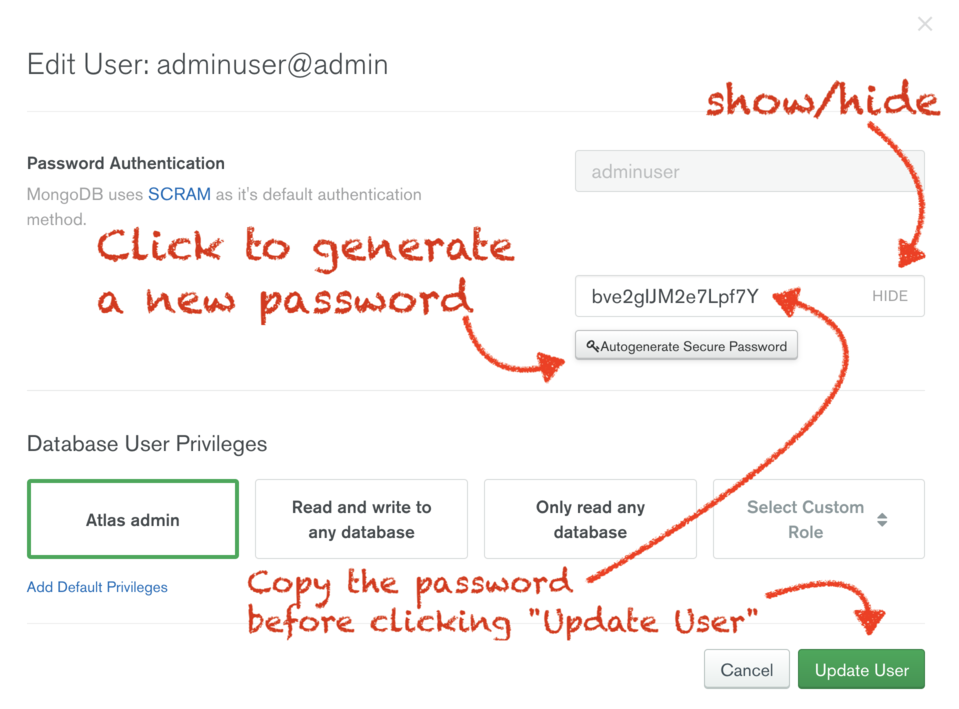
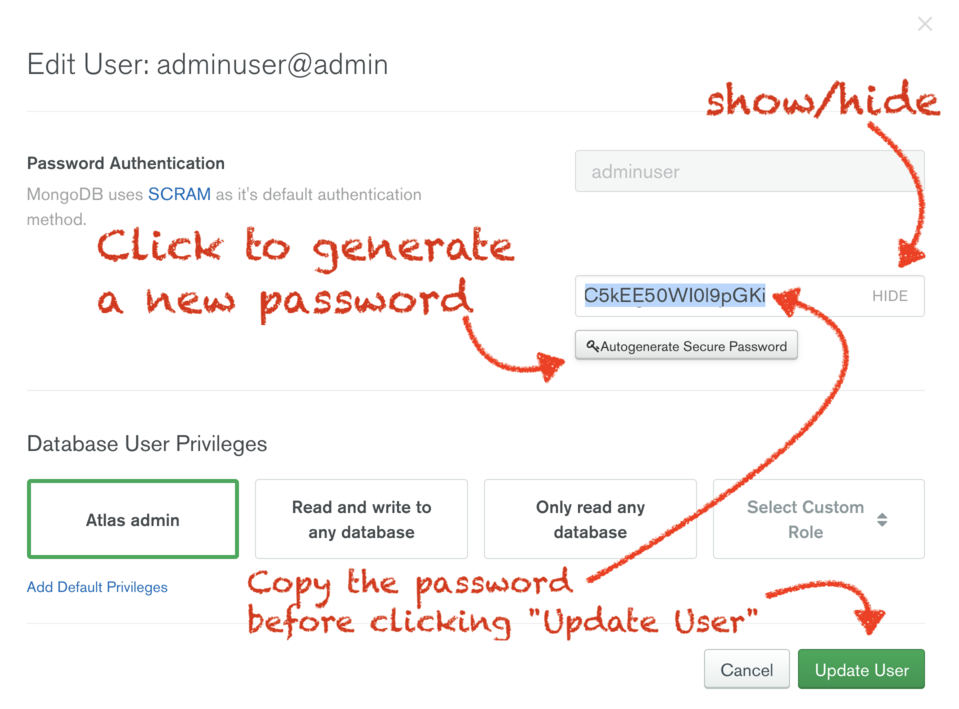
pc - finish first pass at MongoDB setup instructions

Changed region(s): [[0.6048, 0.3724, 0.8165, 0.4344]]

diff --git a/_topics/mongodb_cloud_atlas_setup.md b/_topics/mongodb_cloud_atlas_setup.md
@@ -209,6 +209,16 @@ The instructions in this article cover how to set up a new free account, up to t
   
   ![18-change-db-user-password.png](18-change-db-user-password-50.png)
 
-  ![20-copy-password.png](20-copy-password-50.png)
+  Paste in the password into the appropriate configuration file, replacing `<password>`, including
+  the angle brackets (`<>`).   Be sure to then click "Update User" rather than "Cancel",
+  so that the change in the password takes effect.
 
   ![21-paste-in-password.png](21-paste-in-password-50.png)
+
+# Step 11: Test your application
+
+  Congratulations: you are done. You should now be able to test your application
+  with MongoDB.
+
+  For more specific information, consult the specific MongoDB documentation for your tech stack.
+  
